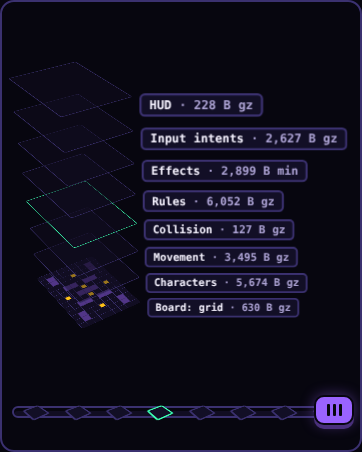
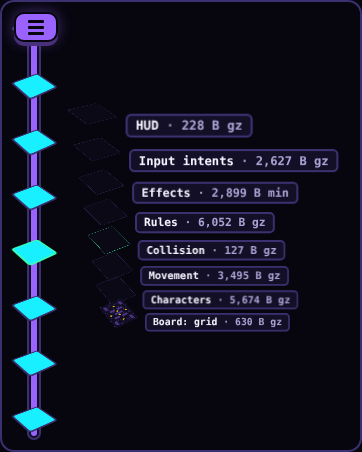
Layers story: the controls are one vertical column on the left
Owner feedback on the live hero: the horizontal bar under the game and its bunched plates looked
odd. On every host and orientation: a vertical slider on top, the play/pause key below it, on the
left (the labels take the right). The slider is a recessed kit groove with the stack's eight
plates threaded on it, lighting up from the bottom as the thumb (kit arcade key) rises.

Mid-scrub poses fit (scale eases ahead of the turn; perspective origin at the free area's centre,
perspective 4000 px). The poster clips its own overflow, so an overflow:hidden host figure is no
longer scrollable by scrollIntoView. One layout removed the orientation branches: live chunk
9,706 B gzip (budget 9,728 unchanged); inline poster + script 4,505 B.

Claude-Session: https://claude.ai/code/session_0153fwkiznjxyxnVJXRYF7zE

diff --git a/site/demos/layers/poster.ts b/site/demos/layers/poster.ts
@@ -4,8 +4,9 @@
  *
  * The poster is the same stack as the scene, posed by one CSS variable on the figure, `--e`
  * (0 assembled, 1 exploded), so it needs no JS to draw. Default 0 (the board in game mode); with
- * reduced motion 1 (the still exploded view with every label). The controls (a play/pause key and
- * a 3D slider that scrubs the explode/assemble timeline) are real HTML from the first paint.
+ * reduced motion 1 (the still exploded view with every label). The controls (a vertical 3D slider
+ * that scrubs the explode/assemble timeline, above a play/pause key, on the left) are real HTML
+ * from the first paint.
  *
  * One writer at a time: before the scene loads (and always under reduced motion, where it never
  * loads), the inline controller moves `--e` and the slider itself. Once the scene is mounted it only
@@ -17,26 +18,31 @@ import { SCENE_CSS } from "./css";
 import { LAYERS, FAULT, ARIA, LABEL_W, PITCH, SIN_TILT, BOUNDS, RESERVE, bounds, COLS, ROWS, CELL, BW, BH, MAP, TILT, TURN, GAP } from "./data";
 
 const B = bounds(), R = RESERVE, r3 = (v: number) => Math.max(0.05, Math.round(v * 1000) / 1000);
-// Scale steps by the slot's size (container queries), per orientation: landscape keeps a RESERVE
-// column on each side (play key left, slider right); portrait keeps a RESERVE row at the bottom.
+// Scale steps by the slot's size (container queries). The controls keep a RESERVE column on the
+// left (slider above the play key), in every orientation; the stack centres in the rest.
 let steps = "";
-for (const [o, dw, dh] of [["landscape", 2 * R, 0], ["portrait", 0, R]] as const)
-  for (let v = 250; v <= 1500; v += 50)
-    steps += `@container (orientation:${o}) and (min-width:${v}px){.lyr__s{--wp:${r3((v - 24 - dw) / (BW + 16))};--we:${r3((v - 28 - LABEL_W - dw) / B.w)}}}` +
-      `@container (orientation:${o}) and (min-height:${v}px){.lyr__s{--hp:${r3((v - 24 - dh) / (BH + 20))};--he:${r3((v - 24 - dh) / B.h)};--hg:${r3((v - 24 - dh - 7 * PITCH) / BOUNDS.hb)}}}`;
+for (let v = 250; v <= 1500; v += 50)
+  steps += `@container (min-width:${v}px){.lyr__s{--wp:${r3((v - 24 - R) / (BW + 16))};--we:${r3((v - 44 - LABEL_W - R) / B.w)}}}` +
+    `@container (min-height:${v}px){.lyr__s{--hp:${r3((v - 24) / (BH + 20))};--he:${r3((v - 24) / B.h)};--hg:${r3((v - 24 - 7 * PITCH) / BOUNDS.hb)}}}`;
 
 const N = LAYERS.length;
 const e = "var(--e)";
 
 export { bounds, BOUNDS, LAYERS } from "./data";
 
+// Notes on the CSS below (kept out of the shipped string):
+// - overflow:clip (the figure and its poster), not hidden: a hidden box is still a scroll container,
+//   and scrollIntoView on a control would scroll the figure's insides (the poster's unexploded labels
+//   overflow it). The poster clips its own overflow, so a host's overflow:hidden figure has none.
+// - The controls: one column on the left, the slider above the play key. The slider is a recessed kit
+//   groove with the stack's eight plates threaded on it (same tilt as the layers); the plates light
+//   up from the bottom as it rises, and the thumb is the kit's arcade key, moving up and down.
 export const POSTER_CSS = SCENE_CSS + `
-.lyr{--e:0;position:relative;margin:0;width:100%;aspect-ratio:4/5;max-height:640px;container-type:size;background:var(--rim);border:2px solid var(--line);border-radius:14px;overflow:hidden;contain:layout paint;content-visibility:auto}
+.lyr{--e:0;position:relative;margin:0;width:100%;aspect-ratio:4/5;max-height:640px;container-type:size;background:var(--rim);border:2px solid var(--line);border-radius:14px;overflow:clip;contain:layout paint;content-visibility:auto}
 .lyr__d{position:absolute;width:1px;height:1px;overflow:hidden;clip-path:inset(50%);white-space:nowrap}
-.lyr__p{position:absolute;inset:0;perspective:2200px;font:700 11px/1 ui-monospace,SFMono-Regular,Menlo,Consolas,monospace;color:var(--ink)}
-.lyr__s{position:absolute;left:50%;top:50%;width:${BW}px;height:${BH}px;margin:-${BH / 2}px 0 0 -${BW / 2}px;transform-style:preserve-3d;--oy:0px;--wp:.6;--hp:.6;--we:.2;--he:.2;--hg:.2;--sp:min(var(--wp),var(--hp));--se:min(var(--we),var(--he),var(--hg));` +
-  `transform:translate(calc(${-LABEL_W / 2 - B.cx}px * ${e}),var(--oy)) scale(calc(var(--sp) + (var(--se) - var(--sp)) * ${e})) rotateX(calc(${TILT}deg * ${e})) rotateZ(calc(${TURN}deg * ${e}))}
-@container (orientation:portrait){.lyr__s{--oy:${-R / 2}px}}
+.lyr__p{position:absolute;inset:0;overflow:clip;perspective:4000px;perspective-origin:calc(50% + ${R / 2}px) 50%;font:700 11px/1 ui-monospace,SFMono-Regular,Menlo,Consolas,monospace;color:var(--ink)}
+.lyr__s{position:absolute;left:50%;top:50%;width:${BW}px;height:${BH}px;margin:-${BH / 2}px 0 0 -${BW / 2}px;transform-style:preserve-3d;--wp:.6;--hp:.6;--we:.2;--he:.2;--hg:.2;--sp:min(var(--wp),var(--hp));--se:min(var(--we),var(--he),var(--hg));` +
+  `transform:translateX(calc(${R / 2}px + ${-LABEL_W / 2 - B.cx}px * ${e})) scale(calc(var(--sp) + (var(--se) - var(--sp)) * sqrt(${e}))) rotateX(calc(${TILT}deg * ${e})) rotateZ(calc(${TURN}deg * ${e}))}
 ${steps}
 .lyr__l{position:absolute;inset:0;transform-style:preserve-3d;border-radius:6px}
 ${LAYERS.map((_, i) => `.lyr__l:nth-child(${i + 1}){transform:translateZ(calc(${i - (N - 1) / 2} * max(${GAP}px, ${PITCH}px / (${SIN_TILT.toFixed(4)} * var(--se))) * ${e}))}`).join("")}
@@ -47,20 +53,22 @@ ${LAYERS.map((_, i) => `.lyr__l:nth-child(${i + 1}){transform:translateZ(calc(${
 .lyr__t{position:absolute;left:100%;top:100%;white-space:nowrap;background:var(--card);border:2px solid var(--line);transform-origin:0 0;font-size:calc(11px / var(--se));border-width:calc(2px / var(--se));padding:calc(3px / var(--se)) calc(7px / var(--se));margin:calc(-2px / var(--se)) 0 0 calc(10px / var(--se));border-radius:calc(5px / var(--se));` +
   `transform:rotateZ(calc(${-TURN}deg * ${e})) rotateX(calc(${-TILT}deg * ${e}));opacity:clamp(0,(${e} - .99) * 100,1)}
 .lyr__t u{text-decoration:none;color:var(--muted)}
-.lyr__ui{position:absolute;inset:10px;z-index:1;pointer-events:none}
-.lyr__ui>*{position:absolute;pointer-events:auto}
-.lyr .lyr__play{left:0;bottom:0;width:44px;padding:0;justify-content:center}
+.lyr__ui{position:absolute;left:10px;top:10px;bottom:10px;width:44px;z-index:1;pointer-events:none}
+.lyr__ui>*{position:absolute;left:0;width:44px;pointer-events:auto}
+.lyr .lyr__play{bottom:0;padding:0;justify-content:center}
 .lyr__play svg{fill:currentColor;stroke:none}.lyr__play[aria-label=Play] .p,.lyr__play[aria-label=Pause] .q{display:none}
-.lyr__sl{right:0;top:0;bottom:6px;width:44px;touch-action:none;outline:none;cursor:pointer;--n:calc(2px + ${e} * 9%)}
-.lyr__sl::before{content:"";position:absolute;inset:0 16px;border-radius:6px;background:var(--surface);border:2px solid var(--line);box-shadow:inset 0 3px 0 var(--rim)}
-.lyr__r{position:absolute;inset:6px 0;display:flex;flex-direction:column-reverse;align-items:center;justify-content:center;gap:var(--n);transform-style:preserve-3d}
-.lyr__r i{width:16px;height:16px;flex:none;margin:-5px 0;border:2px solid var(--line);border-radius:3px;background:var(--card);transform:perspective(90px) rotateX(${TILT}deg) rotateZ(${TURN}deg)}
-.lyr__r i:nth-child(4){border-color:var(--k-go)}
-.lyr .lyr__k{position:absolute;left:4px;width:36px;min-height:0;height:26px;padding:0;bottom:calc(${e} * (100% - 26px));justify-content:center;gap:3px;pointer-events:none}
-.lyr__k b{width:3px;height:12px;background:var(--rim);border-radius:1px}
+.lyr__sl{top:0;bottom:60px;touch-action:none;outline:none;cursor:ns-resize}
+.lyr__sl::before,.lyr__sl::after{content:"";position:absolute;left:15px;right:15px;border-radius:7px}
+.lyr__sl::before{top:0;bottom:0;background:var(--surface);border:2px solid var(--line);box-shadow:inset 0 4px 0 var(--rim)}
+.lyr__sl::after{left:19px;right:19px;bottom:4px;height:calc(${e} * (100% - 30px) + 11px);background:var(--k-cmd)}
+.lyr__r{position:absolute;z-index:1;inset:13px 0 17px;display:flex;flex-direction:column-reverse;justify-content:space-between;align-items:center}
+.lyr__r i{width:30px;height:30px;margin:-12px 0;border:2px solid var(--line);border-radius:4px;transform:perspective(160px) rotateX(${TILT}deg) rotateZ(${TURN}deg)}
+${LAYERS.map((_, i) => `.lyr__r i:nth-child(${i + 1}){background:color-mix(in srgb,var(--k-sys) calc(clamp(0,(${e} * ${N} - ${i}) * 2,1) * 100%),var(--card))}`).join("")}
+.lyr__r i:nth-child(${FAULT + 1}){border-color:var(--k-go)}
+.lyr .lyr__k{position:absolute;left:2px;width:40px;min-height:0;height:26px;padding:0;bottom:calc(${e} * (100% - 30px));flex-direction:column;justify-content:center;gap:3px;pointer-events:none;z-index:2}
+.lyr__k b{width:16px;height:3px;background:var(--rim);border-radius:1px}
 .lyr__sl:focus-visible .lyr__k{box-shadow:0 var(--py) 0 var(--edge),0 0 0 3px var(--bg),0 0 0 6px var(--k-sys-ink)}
-@container (orientation:portrait){.lyr__sl{left:56px;top:auto;bottom:6px;width:auto;height:44px}.lyr__sl::before{inset:16px 0}.lyr__r{inset:0 6px;flex-direction:row}.lyr__r i{margin:0 -5px}.lyr .lyr__k{left:calc(${e} * (100% - 36px));bottom:9px}}
-@media (prefers-reduced-motion:reduce){.lyr{--e:1}.lyr .lyr__play{display:none}@container (orientation:portrait){.lyr__sl{left:0}}}`;
+@media (prefers-reduced-motion:reduce){.lyr{--e:1}.lyr .lyr__play{display:none}.lyr__sl{bottom:0}}`;
 
 const icon = (d: string, c: string) => `<svg class="${c}" viewBox="0 0 20 20" width="20" height="20" aria-hidden="true"><path d="${d}"/></svg>`;
 
@@ -78,9 +86,9 @@ export function poster(target = "index#layers") {
     `<p class="lyr__d" id="lyr-d">${ARIA}</p>` +
     `<div class="ae-slot__placeholder lyr__p" aria-hidden="true"><div class="lyr__s">${layers}</div></div>` +
     `<div class="lyr__ui">` +
-    `<button type="button" class="bui-key bui-arcade bui-go lyr__play" aria-label="Pause">${icon("M5 4h4v12H5zM11 4h4v12h-4z", "p")}${icon("m6 4 10 6-10 6Z", "q")}</button>` +
     `<div class="lyr__sl" role="slider" tabindex="0" aria-label="Explode the layers" aria-orientation="vertical" aria-valuemin="0" aria-valuemax="100" aria-valuenow="0">` +
     `<span class="lyr__r" aria-hidden="true">${"<i></i>".repeat(N)}</span><span class="bui-key bui-arcade bui-cmd lyr__k" aria-hidden="true"><b></b><b></b><b></b></span></div>` +
+    `<button type="button" class="bui-key bui-arcade bui-go lyr__play" aria-label="Pause">${icon("M5 4h4v12H5zM11 4h4v12h-4z", "p")}${icon("m6 4 10 6-10 6Z", "q")}</button>` +
     `</div></figure>`;
 }
 
@@ -98,8 +106,8 @@ export const loader = (src = "./layers.js") =>
   `put=v=>{v=v<0?-1:Math.round(Math.min(100,v));if(v>=0)c=v,t=performance.now();if(live())f.dispatchEvent(new CustomEvent("lyr",{detail:v}));` +
   `else if(v<0)b.ariaLabel=b.ariaLabel=="Play"?"Pause":"Play";else f.style.setProperty("--e",v/100),s.ariaValueNow=v},` +
   `K={ArrowUp:5,ArrowRight:5,ArrowDown:-5,ArrowLeft:-5,PageUp:25,PageDown:-25,Home:-100,End:100},` +
-  `at=e=>{const r=s.getBoundingClientRect(),w=r.width>r.height;s.ariaOrientation=w?"horizontal":"vertical";put(Math.max(0,w?(e.clientX-r.left-18)/(r.width-36)*100:(r.bottom-13-e.clientY)/(r.height-26)*100))};` +
-  `if(m.matches)s.ariaValueNow=100;s.ariaOrientation=s.offsetWidth>s.offsetHeight?"horizontal":"vertical";` +
+  `at=e=>{const r=s.getBoundingClientRect();put(Math.max(0,(r.bottom-15-e.clientY)/(r.height-30)*100))};` +
+  `if(m.matches)s.ariaValueNow=100;` +
   `s.addEventListener("keydown",e=>{const k=K[e.key];if(k)e.preventDefault(),put(Math.max(0,(performance.now()-t<200?c:+s.ariaValueNow)+k))});` +
   `s.addEventListener("pointerdown",e=>{s.setPointerCapture(e.pointerId);at(e)});` +
   `s.addEventListener("pointermove",e=>s.hasPointerCapture(e.pointerId)&&at(e));` +

diff --git a/site/demos/layers/css.ts b/site/demos/layers/css.ts
@@ -1,14 +1,16 @@
 /** The scene's styles, inlined on the host page with the poster (so the live chunk carries no CSS).
  *  Never put opacity < 1 on a layer (.lz-l): it flattens preserve-3d, and its label would lose its
- *  counter-rotation and smear into the layer's plane. Dim a layer's children instead. */
-import { CELL, BW, BH } from "./data";
+ *  counter-rotation and smear into the layer's plane. Dim a layer's children instead.
+ *  The perspective origin sits at the centre of the free area (right of the controls' column), the
+ *  centre of the exploded stack and its labels, so near layers drift out evenly on both sides. */
+import { CELL, BW, BH, RESERVE } from "./data";
 
 export const SCENE_CSS = `.lz.lz--o .lz-l+.lz-l{border-color:var(--line);background:color-mix(in srgb,var(--surface) 42%,transparent)}
 .lz.lz--f .lz-l+.lz-l:not([data-layer=collision])>*{opacity:.4}.lz.lz--f .lz-l+.lz-l:not([data-layer=collision]){border-color:color-mix(in srgb,var(--line) 40%,transparent)}
 .lz [data-layer=collision]{opacity:0}.lz:is(.lz--o,.lz--b) [data-layer=collision]{opacity:1}
 .lz.lz--b .lz-l[data-layer=collision],.lz.lz--b .lz-l[data-layer=collision] .lz-tag{border-color:var(--k-fire)}.lz.lz--b .lz-l[data-layer=collision]{background:color-mix(in srgb,var(--k-fire) 28%,transparent)}.lz.lz--b .lz-l[data-layer=collision] .lz-tag u{color:var(--k-aim)}
 .lz.lz--k .lz-l[data-layer=collision],.lz.lz--k .lz-l[data-layer=collision] .lz-tag{border-color:var(--k-go)}.lz.lz--k .lz-l[data-layer=collision]{background:color-mix(in srgb,var(--k-go) var(--g),transparent)}.lz.lz--k .lz-l[data-layer=collision] .lz-tag u{color:var(--k-go)}
-.lz{position:absolute;inset:0;perspective:2200px;font:700 11px/1 ui-monospace,SFMono-Regular,Menlo,Consolas,monospace;color:var(--ink);user-select:none}
+.lz{position:absolute;inset:0;perspective:4000px;perspective-origin:calc(50% + ${RESERVE / 2}px) 50%;font:700 11px/1 ui-monospace,SFMono-Regular,Menlo,Consolas,monospace;color:var(--ink);user-select:none}
 .lz-s{position:absolute;left:50%;top:50%;width:${BW}px;height:${BH}px;margin:-${BH / 2}px 0 0 -${BW / 2}px;transform-style:preserve-3d;will-change:transform}
 .lz-l{position:absolute;inset:0;transform-style:preserve-3d;border:2px solid transparent;border-radius:6px}
 .lz-l>*{position:absolute}

diff --git a/site/demos/layers/scene.ts b/site/demos/layers/scene.ts
@@ -101,10 +101,8 @@ export function mount(stage: HTMLElement, opts: LayersOptions = {}, fig: HTMLEle
   stage.append(root);
   let lw = 0;
   for (const t of tags) lw = Math.max(lw, t.offsetWidth);
-  // Controls keep a column on each side (landscape) or a row at the bottom (portrait).
-  const land = W > H, R = RESERVE;
-  const { sp, se, ex, g } = fit(land ? W - 2 * R : W, land ? H : H - R, lw + 14); // + 10px margin, 4px slack
-  const oy = land ? 0 : -R / 2;
+  // The controls keep a column on the left; the stack centres in the rest.
+  const { sp, se, ex, g } = fit(W - RESERVE, H, lw + 14); // + 10px margin, 4px slack
   root.style.setProperty("--se", `${se}`);
   const [gridL, charL, moveL, colL, rulesL, fxL, inL, hudL] = layers as [HTMLElement, HTMLElement, HTMLElement, HTMLElement, HTMLElement, HTMLElement, HTMLElement, HTMLElement];
   // Collision: the fixed copy, revealed by the scan, over the broken one.
@@ -227,11 +225,11 @@ export function mount(stage: HTMLElement, opts: LayersOptions = {}, fig: HTMLEle
     render() {
       const t = phase[0]!;
       const open = t < FOLD_AT ? smooth(PLAY, OPEN, t) : 1 - smooth(FOLD_AT, CLOSED, t);
-      const s = sp + (se - sp) * open;
+      const s = sp + (se - sp) * Math.sqrt(open); // shrink ahead of the turn, so mid-poses fit too
       // Labels only while the stack is fully open: in after it opens, out before the fold starts,
       // so they never move, scale or crowd while the layers travel.
       const label = smooth(OPEN, OPEN + 0.3, t) * (1 - smooth(FOLD_AT - 0.3, FOLD_AT, t));
-      stack.style.transform = `translate(${ex * open}px,${oy}px) scale(${s}) rotateX(${TILT * open}deg) rotateZ(${TURN * open}deg)`;
+      stack.style.transform = `translateX(${ex * open + RESERVE / 2}px) scale(${s}) rotateX(${TILT * open}deg) rotateZ(${TURN * open}deg)`;
       for (let i = 0; i < N; i++) {
         const l = layers[i]!;
         l.style.transform = `translateZ(${(i - (N - 1) / 2) * g * open}px)`;

diff --git a/site/demos/layers/data.ts b/site/demos/layers/data.ts
@@ -69,8 +69,8 @@ export const LABEL_W = 204;
  *  the exploded gap between layers widens so labels never sit closer than this. 28, not 22: the
  *  perspective draws the far (lower) layers a few % smaller, so their pitch shrinks a little too. */
 export const PITCH = 28;
-/** Room the controls keep (screen px): a column on each side in landscape (play key, slider), a row
- *  at the bottom in portrait. */
+/** Room the controls keep (screen px): one column on the left (the slider above the play key), in
+ *  every orientation. */
 export const RESERVE = 56;
 /** sin(TILT): how much of the layer gap shows as vertical spacing on screen. */
 export const SIN_TILT = Math.sin((TILT * Math.PI) / 180);
@@ -104,6 +104,8 @@ export const gap = (se: number) => Math.max(GAP, PITCH / (SIN_TILT * se));
 export function fit(W: number, H: number, lw = LABEL_W) {
   const sp = Math.min((W - 24) / (BW + 16), (H - 24) / (BH + 20));
   // Height: the stack at GAP, and the board plus 7 label pitches when the gap has to widen.
-  const se = Math.min((W - 28 - lw) / BOUNDS.w, (H - 24) / BOUNDS.h, (H - 24 - 7 * PITCH) / BOUNDS.hb);
+  // 44: a 14px margin each side, plus 8px each side for the perspective (near layers draw a few %
+  // larger and drift out from the centre, most on narrow slots, where the gap widens for labels).
+  const se = Math.min((W - 44 - lw) / BOUNDS.w, (H - 24) / BOUNDS.h, (H - 24 - 7 * PITCH) / BOUNDS.hb);
   return { sp, se, ex: -lw / 2, g: gap(se) };
 }

diff --git a/examples/layers/README.md b/examples/layers/README.md
@@ -36,17 +36,20 @@ Optional data attributes on the figure: `data-loops` (cycles before it settles, 
 
 ## Behaviour
 
-- **Controls:** a play/pause key (the kit's arcade key, `go`) on one side and a slider on the other:
-  vertical down the right edge when the slot is wide, along the bottom when it is tall. The slider is
-  a small copy of the stack (eight tilted plates on a kit rail, the collision plate in green) that
-  fans out as the real one does, with the kit's arcade key as its knob. It scrubs the
-  explode/assemble timeline: 0 assembled (the game), 100 exploded (every label in). Dragging or keys
-  pause the story; play resumes it from that pose. `role="slider"` with arrows (±5), Page Up/Down
-  (±25), Home and End; touch and mouse drag; the kit's focus ring on the knob. One writer at a time:
-  before the scene loads (and under reduced motion) the inline controller moves the slider and the
-  poster itself; once the scene is mounted it forwards input as a `lyr` event and the scene writes
-  the controls through its ledger, so Recall gives them back exactly.
-- **Lazy:** no JS file loads up front. An ~850 B inline script (the controls' controller and loader) imports `layers.js` (`fizlet/slot`
+- **Controls:** one column on the left side of the figure (the labels take the right), in every
+  orientation and on every host: a vertical slider on top and a play/pause key (the kit's arcade
+  key, `go`) below it. The slider is a recessed kit groove with the stack's eight plates threaded on
+  it, tilted like the layers (the collision plate in green). The plates light up from the bottom and
+  a fill rises as you drag the thumb (the kit's arcade key) up, and the stack explodes with it. It
+  scrubs the explode/assemble timeline: 0 assembled (the game, thumb at the bottom), 100 exploded
+  (every label in, thumb at the top). Dragging or keys pause the story; play resumes it from that
+  pose. `role="slider"`, `aria-orientation="vertical"`: Up/Right (+5), Down/Left (−5), Page Up/Down
+  (±25), Home and End; touch and mouse drag; the kit's focus ring on the thumb. Tab order follows the
+  column: slider, then play. One writer at a time: before the scene loads (and under reduced motion)
+  the inline controller moves the slider and the poster itself; once the scene is mounted it
+  forwards input as a `lyr` event and the scene writes the controls through its ledger, so Recall
+  gives them back exactly.
+- **Lazy:** no JS file loads up front. A ~770 B inline script (the controls' controller and loader) imports `layers.js` (`fizlet/slot`
   and the scene, one file) when the slot comes within 200px or is tapped; the slot then waits for an
   idle main thread and mounts the scene. The tap that triggers the load is not replayed (the scene
   takes no tap input; a pointer only wakes a settled scene).
@@ -67,9 +70,9 @@ Optional data attributes on the figure: `data-loops` (cycles before it settles, 
 
 ## Measured
 
-See `site/demos/layers/measured.json`. On Fizlet 0.15.0, Chromium 153: live chunk 9,713 B gzip
+See `site/demos/layers/measured.json`. On Fizlet 0.17.0, Chromium 153: live chunk 9,706 B gzip
 (`fizlet/slot` + scene, loaded only once the slot is near); poster, controls and inline script
-5,258 B gzip (script 848 B); at 4× CPU throttle, script per frame 0.9 ms median, 3.3 ms p95, 11.4 ms
+4,505 B gzip (script 768 B); at 4× CPU throttle, script per frame 1.0 ms median, 3.0 ms p95, 6.0 ms
 max; layout shift 0; 0 frames once settled; 0 B of JS fetched before the slot nears the viewport.
 
 Against the hero budgets in fizlet-engine `docs/LAYERS.md`: live chunk ≥ 5% under 10 KB ✔, poster ≤ 6 KB ✔,

diff --git a/CHANGELOG.md b/CHANGELOG.md
@@ -1,5 +1,27 @@
 # Changelog
 
+## Unreleased
+
+- **Layers story: the controls are one vertical column on the left** (owner feedback on the live
+  hero: the horizontal bar under the game and its bunched "<<<<" plates looked odd). On the home
+  hero and the layers page alike, in every orientation: a vertical slider on top, the play/pause key
+  (kit arcade key) below it, on the side opposite the labels. The slider reads as a vertical 3D
+  control: a recessed kit groove with the stack's eight plates threaded on it, evenly spaced and
+  tilted like the layers, lighting up from the bottom as the thumb (the kit's arcade key) rises; the
+  stack explodes as you drag up. `aria-orientation="vertical"` always; Up/Down arrows, Page Up/Down,
+  Home/End, touch and mouse drag; tab order slider then play; reduced motion keeps the slider
+  working on the still view. Also:
+  - mid-scrub poses no longer touch the frame's edge: the stack's scale eases ahead of its turn
+    (√open), the perspective origin sits at the centre of the free area and the perspective is
+    longer (2200 → 4000 px), so near layers no longer drift into the controls or past the labels;
+  - the figure's poster clips its own overflow (`overflow: clip`): the unexploded labels overflowed
+    it, so an `overflow: hidden` host figure (the gallery's) was scrollable and `scrollIntoView` on
+    a control scrolled the figure's insides, moving the controls under a tap.
+  One layout for every orientation also removed the landscape/portrait branches: live chunk 9,720 →
+  9,706 B gzip (budget ≤ 9,728, unchanged); poster, controls and inline script 5,269 → 4,505 B.
+  Measured (Chromium 153, 4× CPU throttle): script per frame 1.0 ms median, 3.0 ms p95; CLS 0;
+  0 frames once settled; `npm run perf` unchanged against main (layerize 1.9 ms/frame).
+
 ## 0.17.0
 
 - **Perf: the demo's blasts are back to 60 fps at 4× CPU throttle** (30 fps since 0.10.1). Bisected
